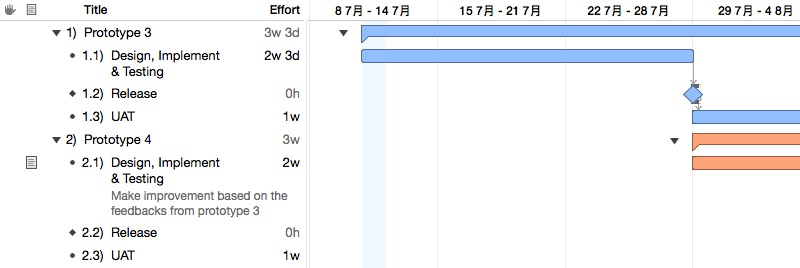
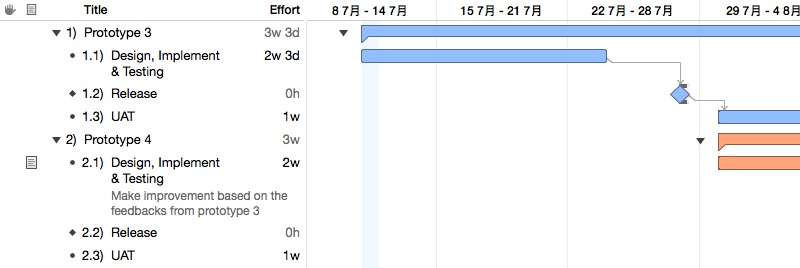
Update

diff --git a/task.html b/task.html
@@ -50,7 +50,7 @@
                 <td style="padding-left: 18px;" class="wrap">1) Prototype 3</td>
                 <td>11/7/2018 上午8:00</td>
                 <td>3/8/2018 下午5:00</td>
-                <td>3w 3d</td>
+                <td>4w 4d</td>
                 <td>0%</td>
                 <td></td>
                 <td align="right"></td>
@@ -66,7 +66,7 @@
             <tr class="taskTypeTask">
                 <td style="padding-left: 28px;" class="wrap">1.1) Design, Implement &amp; Testing</td>
                 <td>11/7/2018 上午8:00</td>
-                <td>27/7/2018 下午5:00</td>
+                <td>23/7/2018 下午5:00</td>
                 <td>2w 3d</td>
                 <td>0%</td>
                 <td></td>
@@ -82,8 +82,8 @@
             
             <tr class="taskTypeMilestone">
                 <td style="padding-left: 28px;" class="wrap">1.2) Release</td>
-                <td>27/7/2018 下午5:00</td>
-                <td>27/7/2018 下午5:00</td>
+                <td>27/7/2018 下午4:45</td>
+                <td>27/7/2018 下午4:45</td>
                 <td></td>
                 <td>0%</td>
                 <td>1.1</td>
@@ -118,7 +118,7 @@
                 <td style="padding-left: 18px;" class="wrap">2) Prototype 4</td>
                 <td>30/7/2018 上午8:00</td>
                 <td>17/8/2018 下午5:00</td>
-                <td>3w</td>
+                <td>3w 4d</td>
                 <td>0%</td>
                 <td></td>
                 <td align="right"></td>
@@ -134,7 +134,7 @@
             <tr class="taskTypeTask">
                 <td style="padding-left: 28px;" class="wrap">2.1) Design, Implement &amp; Testing</td>
                 <td>30/7/2018 上午8:00</td>
-                <td>10/8/2018 下午5:00</td>
+                <td>8/8/2018 下午5:00</td>
                 <td>2w</td>
                 <td>0%</td>
                 <td></td>

diff --git a/gantt.html b/gantt.html
@@ -32,8 +32,8 @@
             <h1>CUPP: <span class="subtitle">Gantt Chart</span></h1>
           <div class="tablewrap">  <table border="0" cellspacing="0" cellpadding="0">
 <tr>
-	<td><img src="include/gantt0,0.jpg?nocacheTag=-1076604317" border=0/></td>
-	<td><img src="include/gantt1,0.jpg?nocacheTag=1299683451" border=0/></td>
+	<td><img src="include/gantt0,0.jpg?nocacheTag=597234846" border=0/></td>
+	<td><img src="include/gantt1,0.jpg?nocacheTag=686562116" border=0/></td>
 </tr>
 </table>
 </div>

diff --git a/montecarlo.html b/montecarlo.html
@@ -50,9 +50,9 @@
             </tr> 
             <tr>
 	            <td>Time to Achieve</td>
-	            <td>27/7/2018 下午5:00</td>
-	            <td>27/7/2018 下午5:00</td>
-	            <td>27/7/2018 下午5:00</td>
+	            <td>27/7/2018 下午4:45</td>
+	            <td>27/7/2018 下午4:45</td>
+	            <td>27/7/2018 下午4:45</td>
             </tr>       
 	            
 	          </table> 
